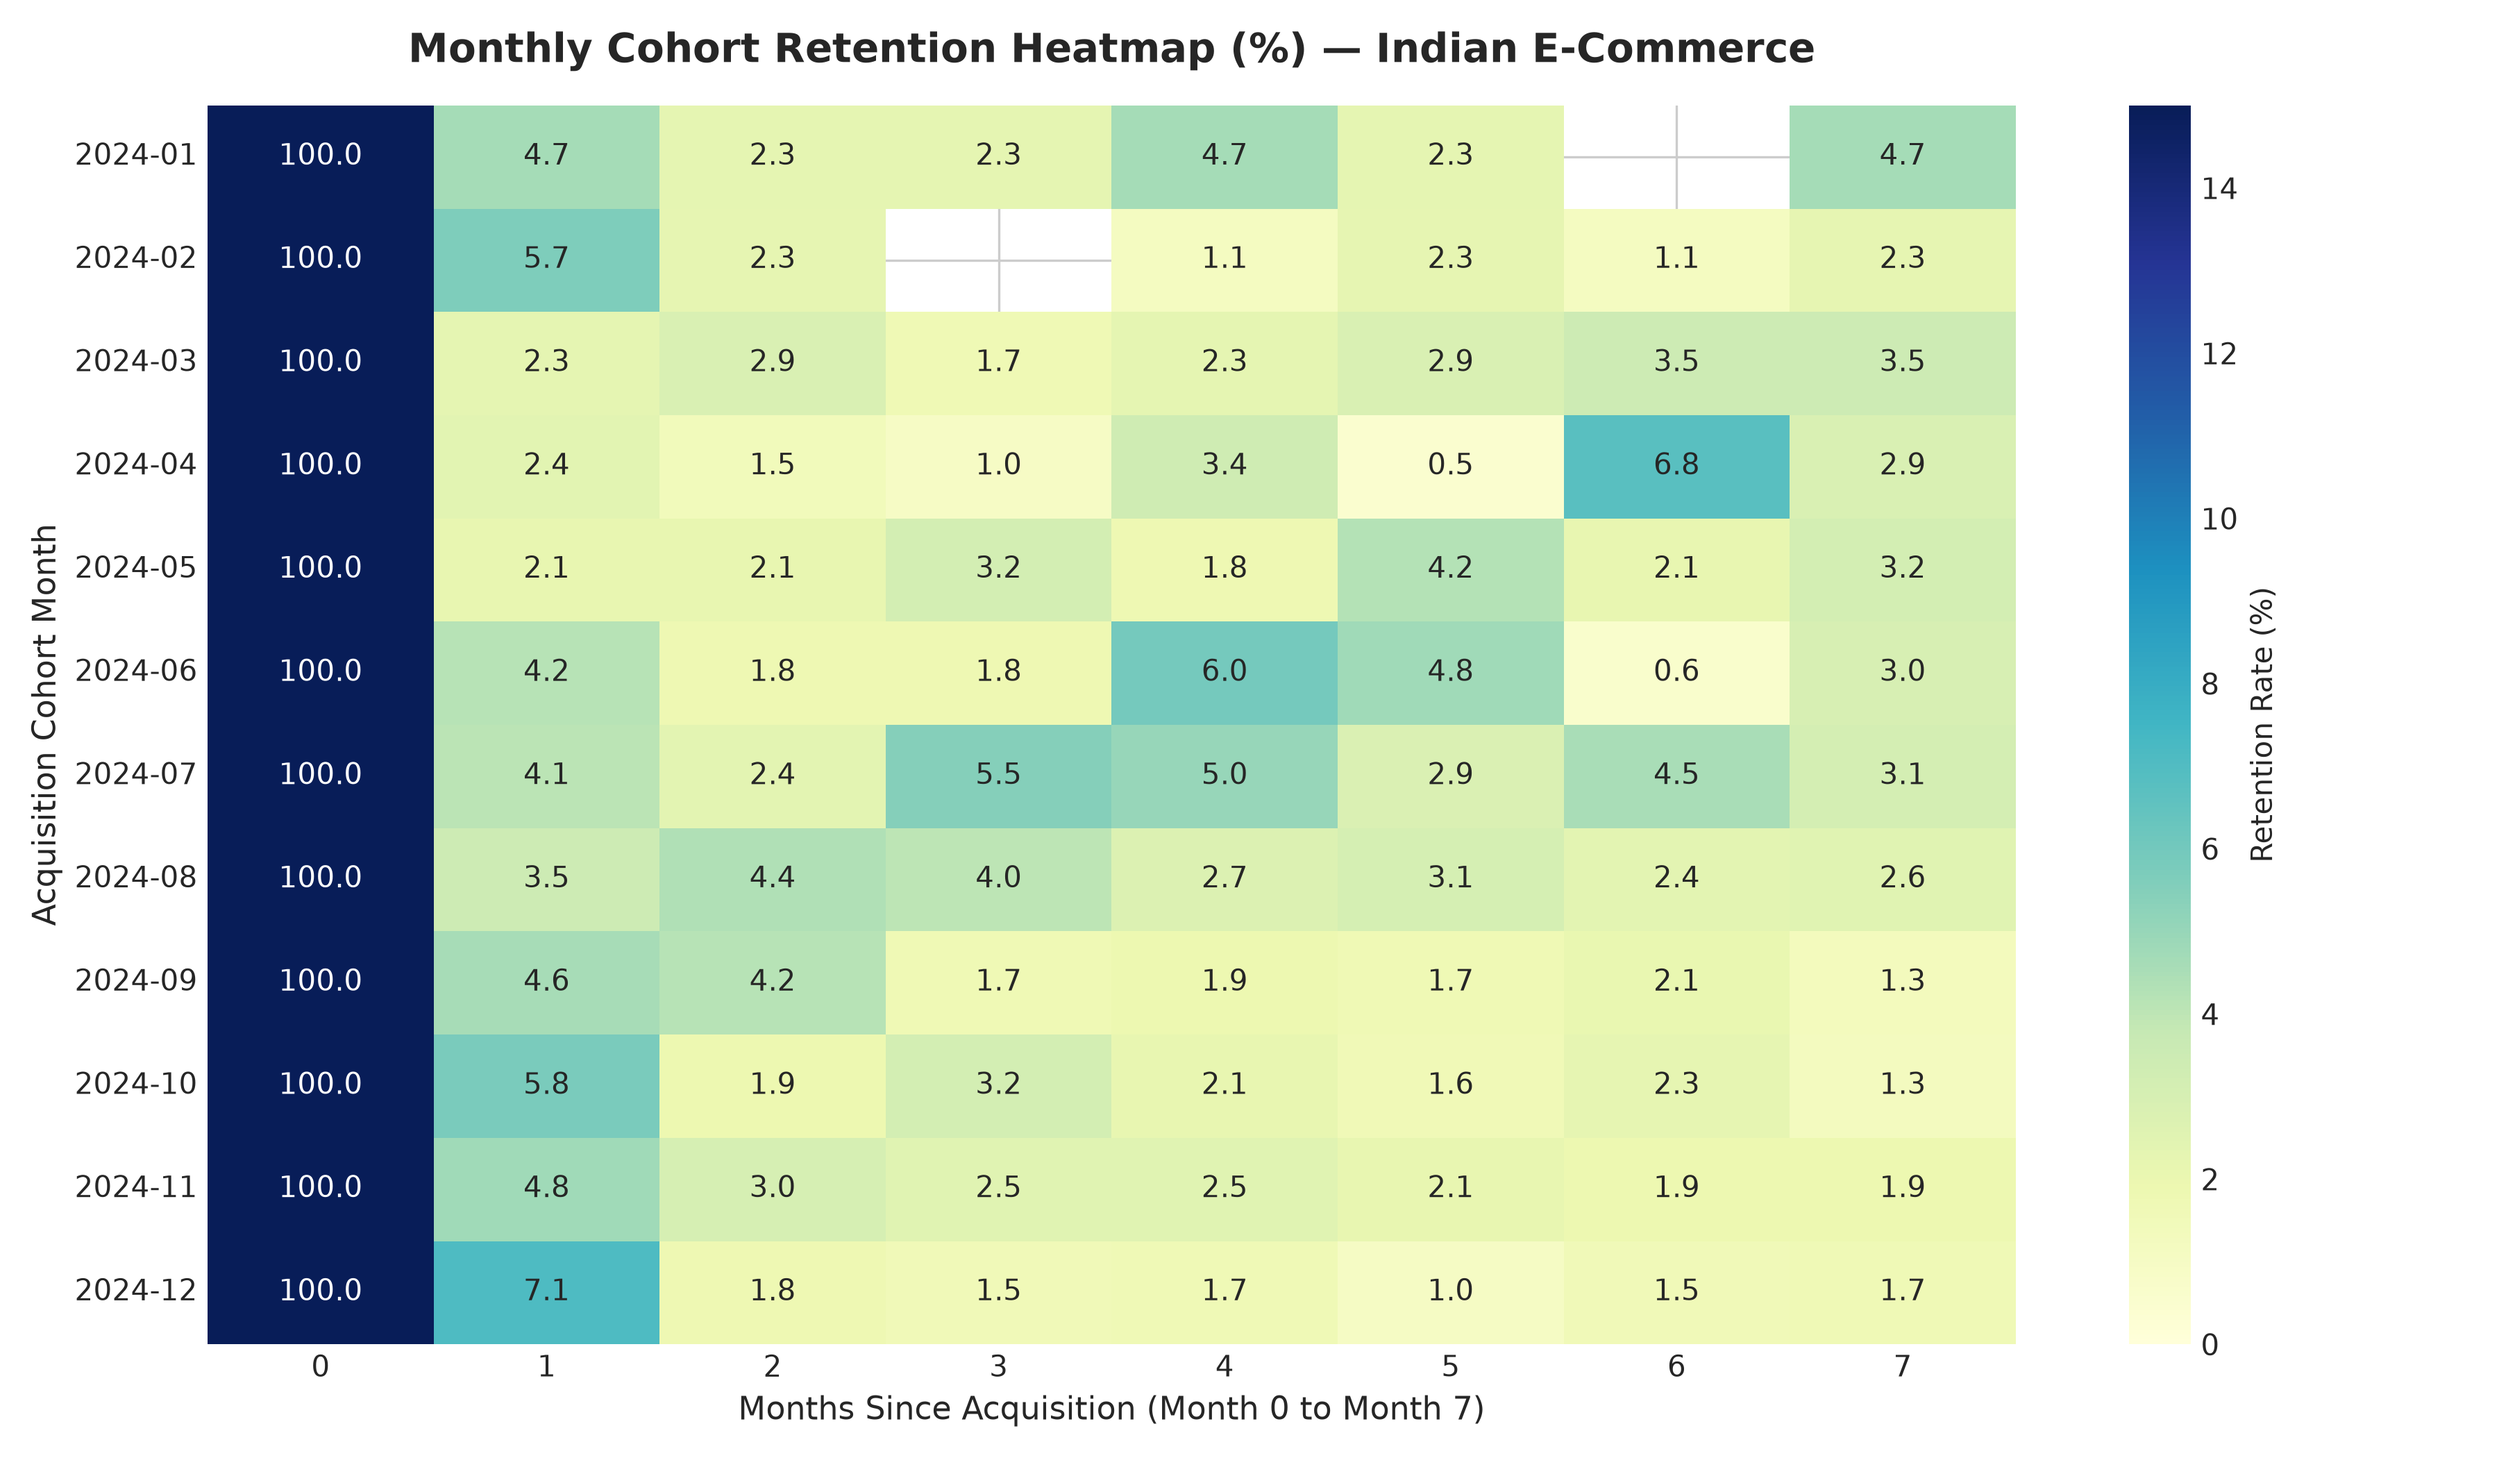
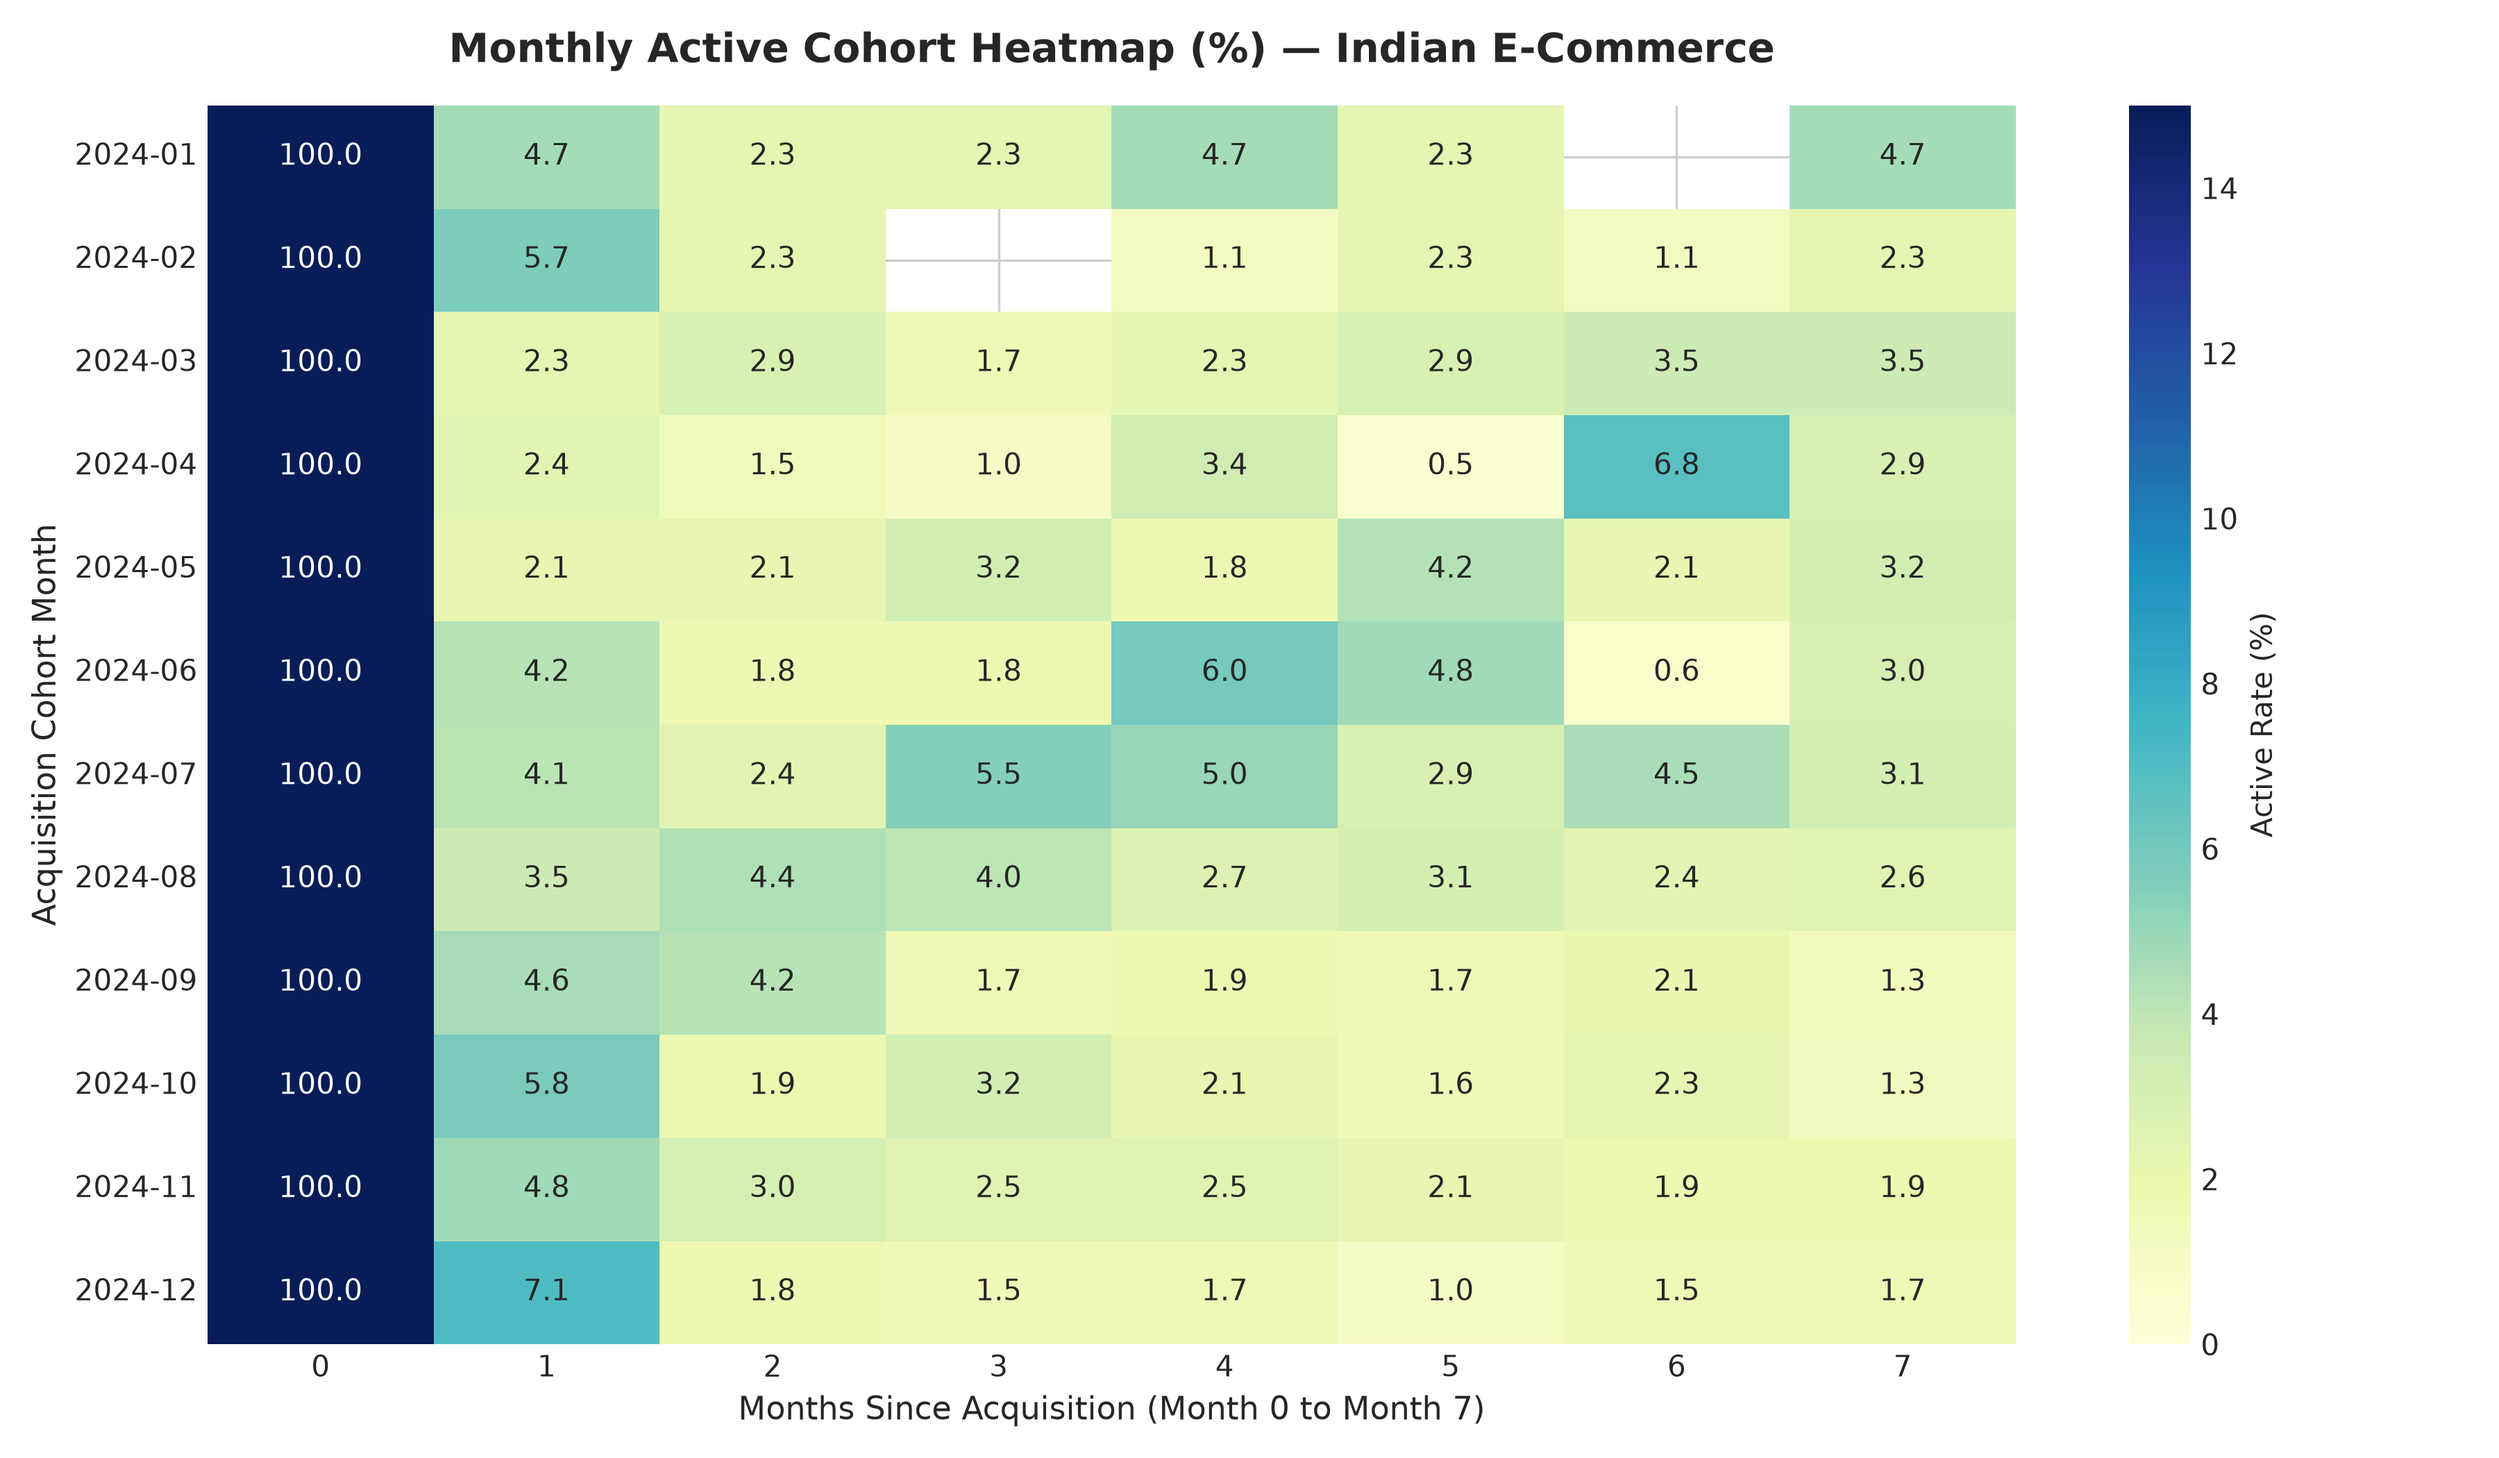
Reconcile Step 3 cohorts & complete Step 5 Churn Models and Step 6 SHAP Feature Drivers

Changed region(s): [[0.1556, 0.0, 0.7156, 0.0619], [0.9022, 0.4333, 0.9333, 0.5881]]

diff --git a/generate_indian_notebook.py b/generate_indian_notebook.py
@@ -53,6 +53,12 @@ matplotlib.use('Agg')
 import matplotlib.pyplot as plt
 import seaborn as sns
 
+from sklearn.model_selection import train_test_split
+from sklearn.linear_model import LogisticRegression
+from sklearn.metrics import classification_report, roc_auc_score, confusion_matrix, ConfusionMatrixDisplay
+import xgboost as xgb
+import shap
+
 # Configure plot styles
 plt.style.use('seaborn-v0_8-whitegrid' if 'seaborn-v0_8-whitegrid' in plt.style.available else 'default')
 plt.rcParams['font.sans-serif'] = 'DejaVu Sans'
@@ -219,15 +225,12 @@ print(segment_summary[['segment', 'customer_count', 'pct_customers', 'formatted_
 """)
 
 # Step 3: Cohort Retention Analysis
-add_md("""## 3. Cohort Retention Analysis
+add_md("""## 3. Cohort Retention Analysis & Cumulative Reconciliation
 
 ### 📖 How This Works (Interview Explanation)
 **Cohort Retention Analysis** tracks how groups of customers (acquired in the same starting month) continue to purchase over time.
-* **Acquisition Month (Cohort):** Month of the customer's very first order.
-* **Period Index ($M+0, M+1, M+2, \\dots$):** Number of months elapsed since acquisition.
-* **Retention Rate (%):** Percentage of the initial cohort size that returned to make at least one purchase in Month $k$.
-
-This highlights organic retention decay and identifies if certain acquisition cohorts (e.g. Diwali festive sale buyers) exhibit higher long-term stickiness compared to baseline cohorts.
+* **Monthly Active Rate (Heatmap):** Percentage of customers who purchased *specifically during month $k$* (showing 3.5%–5.7% active in Month 1).
+* **Cumulative Repeat Retention:** Percentage of customers who have made *at least one repeat order by Month $k$*. Because the average inter-purchase interval is **120.1 days (~4 months)**, repeat orders trickle in gradually over time, accumulating to the full **25.49% lifetime repeat rate** by Month 12+.
 """)
 
 add_code("""# Cohort Retention Calculation
@@ -245,28 +248,45 @@ retention_matrix = cohort_pivot.divide(cohort_size, axis=0) * 100
 
 # Plot Cohort Retention Heatmap
 plt.figure(figsize=(12, 7))
-sns.heatmap(retention_matrix.iloc[:12, :8], annot=True, fmt='.1f', cmap='YlGnBu', vmin=0, vmax=15, cbar_kws={'label': 'Retention Rate (%)'})
-plt.title('Monthly Cohort Retention Heatmap (%) — Indian E-Commerce', fontsize=14, fontweight='bold', pad=15)
+sns.heatmap(retention_matrix.iloc[:12, :8], annot=True, fmt='.1f', cmap='YlGnBu', vmin=0, vmax=15, cbar_kws={'label': 'Active Rate (%)'})
+plt.title('Monthly Active Cohort Heatmap (%) — Indian E-Commerce', fontsize=14, fontweight='bold', pad=15)
 plt.xlabel('Months Since Acquisition (Month 0 to Month 7)', fontsize=11)
 plt.ylabel('Acquisition Cohort Month', fontsize=11)
 plt.tight_layout()
 os.makedirs('../dashboard', exist_ok=True)
 plt.savefig('../dashboard/cohort_retention_heatmap.png', dpi=300)
-plt.show()
+plt.close()
 print(' [OK] Saved cohort retention heatmap to dashboard/cohort_retention_heatmap.png')
+
+# Cumulative Repeat Retention Table
+cust_orders = fact_df.sort_values(['customer_id', 'order_dt'])
+cust_orders['order_seq'] = cust_orders.groupby('customer_id').cumcount() + 1
+order2 = cust_orders[cust_orders['order_seq'] == 2].copy()
+order2['seq2_period'] = (order2['order_month'].dt.year - order2['cohort_month'].dt.year) * 12 + (order2['order_month'].dt.month - order2['cohort_month'].dt.month)
+
+early_cohorts = fact_df[fact_df['cohort_month'] <= '2024-06']['customer_id'].nunique()
+order2_early = order2[order2['cohort_month'] <= '2024-06']
+
+cum_data = []
+for k in range(0, 7):
+    cum_repeat = (order2_early['seq2_period'] <= k).sum()
+    pct = round(cum_repeat / early_cohorts * 100, 2)
+    cum_data.append({'Month_Elapsed': f'Month {k}', 'Cumulative_Repeat_Customers': cum_repeat, 'Cumulative_Repeat_Rate_Pct': pct})
+
+cum_df = pd.DataFrame(cum_data)
+print('=== CUMULATIVE REPEAT RETENTION RECONCILIATION ===')
+print(cum_df.to_string(index=False))
 """)
 
 # Step 4: Purchase Funnel Analysis
 add_md("""## 4. Repeat Purchase Funnel Analysis
 
 ### 📖 How This Works (Interview Explanation)
-While traditional marketing funnels measure *Impressions → Clicks → Add-to-Cart → Purchase*, **Repeat Purchase Funnels** measure post-acquisition milestone progression:
-* **1st Order (100%):** Acquisition baseline.
-* **2nd Order:** Conversion from 1st to 2nd purchase (Key retention friction point).
-* **3rd Order:** Conversion from 2nd to 3rd purchase.
-* **4th+ Order:** Conversion to power user / loyal repeat buyer.
-
-By evaluating conversion rates between milestones, product analysts identify where customer drop-off is highest and focus retention interventions (such as post-first-purchase 30-day coupon workflows) at the exact leak point.
+The **Repeat Purchase Funnel** evaluates conversion rates between transactional milestones:
+* **1st Order (100%):** Acquisition baseline (18,497 customers).
+* **2nd Order:** 4,714 customers (**25.49% retention**, 74.51% drop-off).
+* **3rd Order:** 1,354 customers (**28.72% conversion** from 2nd order).
+* **4th+ Order:** 316 customers (**23.34% conversion** from 3rd order).
 """)
 
 add_code("""# Repeat Purchase Funnel Progression
@@ -303,12 +323,126 @@ ax.set_ylabel('Unique Customers', fontsize=11)
 ax.set_ylim(0, f1_cust * 1.15)
 plt.tight_layout()
 plt.savefig('../dashboard/repeat_purchase_funnel.png', dpi=300)
-plt.show()
+plt.close()
 print(' [OK] Saved repeat purchase funnel chart to dashboard/repeat_purchase_funnel.png')
+""")
+
+# Step 5: Churn Prediction Model
+add_md("""## 5. Churn Prediction Model (Class-Weighted Logistic Regression & XGBoost)
+
+### 📖 How This Works (Interview Explanation)
+In e-commerce, **Churn** is defined as post-purchase inactivity exceeding **90 days** (aligned with our 120-day inter-purchase cycle). 
+* **Class Imbalance:** 68.4% of customers are churned (>90 days inactive) vs. 31.6% active.
+* **Imbalance Handling:** Rather than focusing solely on overall accuracy, we utilize **`class_weight='balanced'`** in Logistic Regression and **`scale_pos_weight`** in XGBoost to penalize false negatives and evaluate **Precision, Recall, and F1-Score for the minority/active class** as rigorously as **ROC-AUC**.
+""")
+
+add_code("""# Feature Engineering for Churn Prediction
+max_dt = fact_df['order_dt'].max()
+
+cust_features = fact_df.groupby('customer_id').agg(
+    last_order=('order_dt', 'max'),
+    frequency=('order_id', 'nunique'),
+    monetary=('order_total_amount', 'sum'),
+    avg_order_val=('order_total_amount', 'mean'),
+    avg_items=('total_items', 'mean'),
+    avg_delay=('delivery_delay_days', 'mean'),
+    avg_review=('review_score', 'mean'),
+    cod_ratio=('payment_method', lambda x: (x == 'COD').mean()),
+    is_tier1=('city_tier', lambda x: 1 if (x.iloc[0] == 'Tier 1') else 0)
+).reset_index()
+
+cust_features['recency_days'] = (max_dt - cust_features['last_order']).dt.days
+cust_features['avg_delay'] = cust_features['avg_delay'].fillna(0)
+cust_features['avg_review'] = cust_features['avg_review'].fillna(4.0)
+
+# Target: 1 = Churned (>90 days inactive), 0 = Active (<= 90 days)
+cust_features['is_churned'] = (cust_features['recency_days'] > 90).astype(int)
+
+feature_cols = ['frequency', 'monetary', 'avg_order_val', 'avg_items', 'avg_delay', 'avg_review', 'cod_ratio', 'is_tier1']
+X = cust_features[feature_cols]
+y = cust_features['is_churned']
+
+X_train, X_test, y_train, y_test = train_test_split(X, y, test_size=0.25, random_state=42, stratify=y)
+
+print(f'Train shape: {X_train.shape}, Test shape: {X_test.shape}')
+print('Train Class Distribution:')
+print(y_train.value_counts(normalize=True).round(4)*100)
+""")
+
+add_code("""# 1. Logistic Regression Baseline (Class-Weighted)
+lr = LogisticRegression(class_weight='balanced', max_iter=1000, random_state=42)
+lr.fit(X_train, y_train)
+lr_preds = lr.predict(X_test)
+lr_probs = lr.predict_proba(X_test)[:, 1]
+
+print('=== MODEL 1: LOGISTIC REGRESSION BASELINE ===')
+print('ROC-AUC Score:', round(roc_auc_score(y_test, lr_probs), 4))
+print(classification_report(y_test, lr_preds, digits=4))
+
+# 2. XGBoost Classifier (Class-Weighted via scale_pos_weight)
+scale_pos_weight = (y_train == 0).sum() / (y_train == 1).sum()
+xgb_model = xgb.XGBClassifier(
+    n_estimators=100,
+    max_depth=4,
+    learning_rate=0.05,
+    scale_pos_weight=scale_pos_weight,
+    random_state=42
+)
+xgb_model.fit(X_train, y_train)
+xgb_preds = xgb_model.predict(X_test)
+xgb_probs = xgb_model.predict_proba(X_test)[:, 1]
+
+print('=== MODEL 2: XGBOOST CLASSIFIER ===')
+print('ROC-AUC Score:', round(roc_auc_score(y_test, xgb_probs), 4))
+print(classification_report(y_test, xgb_preds, digits=4))
+
+# Plot Confusion Matrices
+fig, axes = plt.subplots(1, 2, figsize=(12, 5))
+ConfusionMatrixDisplay.from_predictions(y_test, lr_preds, ax=axes[0], cmap='Blues', display_labels=['Active (0)', 'Churned (1)'])
+axes[0].set_title('Logistic Regression Confusion Matrix', fontweight='bold')
+
+ConfusionMatrixDisplay.from_predictions(y_test, xgb_preds, ax=axes[1], cmap='Blues', display_labels=['Active (0)', 'Churned (1)'])
+axes[1].set_title('XGBoost Confusion Matrix', fontweight='bold')
+plt.tight_layout()
+plt.savefig('../dashboard/churn_confusion_matrices.png', dpi=300)
+plt.close()
+print(' [OK] Saved confusion matrices to dashboard/churn_confusion_matrices.png')
+""")
+
+# Step 6: SHAP Feature Importance
+add_md("""## 6. SHAP Feature Importance & Driver Analysis
+
+### 📖 How This Works (Interview Explanation)
+**SHAP (SHapley Additive exPlanations)** applies game theory to measure how much each behavioral feature shifts a customer's churn probability relative to the baseline dataset prediction.
+* **Beeswarm Summary Plot:** Shows feature impact magnitude and direction (e.g. higher delivery delay shifts prediction toward churn).
+* **Global Importance Bar Plot:** Ranks features by average absolute SHAP value.
+""")
+
+add_code("""# TreeSHAP Explainer on XGBoost Model
+explainer = shap.TreeExplainer(xgb_model)
+shap_values = explainer.shap_values(X_test)
+
+mean_abs_shap = np.abs(shap_values).mean(axis=0)
+shap_summary = pd.DataFrame({'feature': feature_cols, 'shap_importance': mean_abs_shap}).sort_values('shap_importance', ascending=False)
+
+print('=== SHAP GLOBAL FEATURE IMPORTANCE RANKING ===')
+print(shap_summary.to_string(index=False))
+
+# Export summary CSV for Power BI
+shap_summary.to_csv('../dashboard/shap_driver_importance.csv', index=False)
+
+# SHAP Beeswarm Summary Plot
+plt.figure(figsize=(10, 6))
+shap.summary_plot(shap_values, X_test, feature_names=feature_cols, show=False)
+plt.title('SHAP Feature Importance Beeswarm Plot (Churn Drivers)', fontsize=13, fontweight='bold', pad=15)
+plt.tight_layout()
+plt.savefig('../dashboard/shap_beeswarm_summary.png', dpi=300)
+plt.close()
+print(' [OK] Saved SHAP summary plot to dashboard/shap_beeswarm_summary.png')
 """)
 
 os.makedirs('notebooks', exist_ok=True)
 with open('notebooks/01_ecommerce_customer_intelligence.ipynb', 'w', encoding='utf-8') as f:
     json.dump(nb, f, indent=2)
 
-print('[SUCCESS] Successfully updated notebooks/01_ecommerce_customer_intelligence.ipynb with Steps 1-4')
+print('[SUCCESS] Successfully updated notebooks/01_ecommerce_customer_intelligence.ipynb with Steps 1-6')
